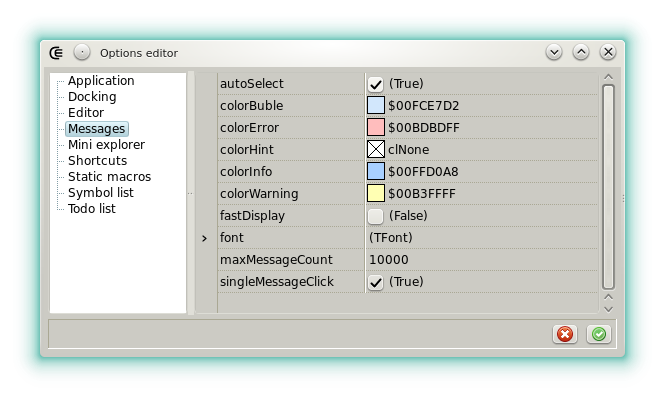
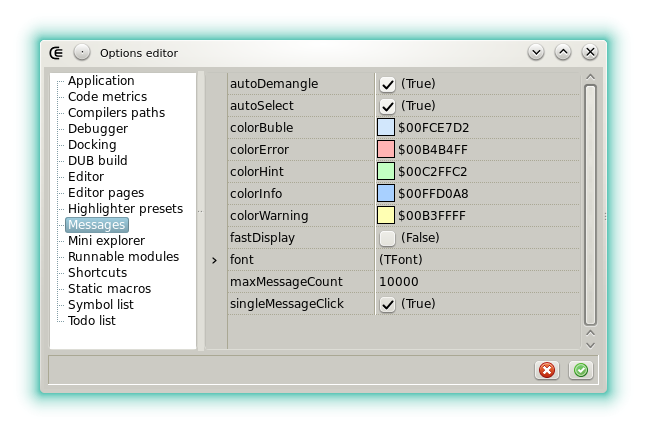
doc

Changed region(s): [[0.0618, 0.0605, 0.9583, 0.937], [0.34, 0.7859, 0.3709, 0.8161]]

diff --git a/docs/widgets_messages.md b/docs/widgets_messages.md
@@ -10,9 +10,9 @@ The widget displays a stream of information about the current file or about the 
 The messages can be filtered according to their context:
 
 - __All__: no filter.
-- __Editor__: filter the messages related to the editor that has the focus (compilation, standard output of the module when executed as a [_runnable_](features_runnables)).
-- __Project__: filter the messages related to the current project (DMD or DUB messages, pre/post compilation process output, project execution).
-- __Application__: filter the messages emitted by CE (applications warnings, application exceptions).
+- __Editor__: filters the messages related to the editor that has the focus (compilation, standard output of the module when executed as a [_runnable_](features_runnables)).
+- __Project__: filters the messages related to the current project (DMD or DUB messages, pre/post compilation process output, project execution).
+- __Application__: filters the messages emitted by CE (applications warnings, application exceptions).
 - __Misc__: miscellaneous messages (messages emitted by the widgets, by the custom tools when their output is redirected, [find all](widgets_search) results, etc). 
 
 ![](img/messages1.png)
@@ -32,10 +32,11 @@ This value and several other options can be changed in the options.
 
 ![](img/options_messages.png)
 
-- **autoSelect**: defines if the widget change dynamically the message categories.
+- ***autoDemangle*: Automatically filter the new messages with [ddemangle](https://github.com/dlang/tools#d-tools). Note that Coedit uses the tool as a daemon so it's perfectly normal that it remains in the task list when the IDE runs.
+- **autoSelect**: Defines if the widget change dynamically the message categories.
 This is a recommended setting because if a run-time error happens, it will be immediately displayed.
-- **colors**: allows to associate a message kind to a particular color.
-- **fast display**: if set, the new messages are displayed fast but by block. When not set the same amount of message takes longer to be displayed but the operation is smoother.
-- **font**: options for the font used in this widget: the size, the family, etc.
-- **maxMessageCount**: allows to limit the maximum number of messages kept in the list.
-- **singleMessageClick**: allows to open the file that the message parser has found by a single click.
+- **colors**: Allows to associate a message kind to a particular color.
+- **fast display**: If set, the new messages are displayed fast but by block. When not set the same amount of message takes longer to be displayed but the operation is smoother.
+- **font**: Options for the font used in this widget: the size, the family, etc.
+- **maxMessageCount**: Allows to limit the maximum number of messages kept in the list.
+- **singleMessageClick**: Allows to open the file that the message parser has found by a single click.
